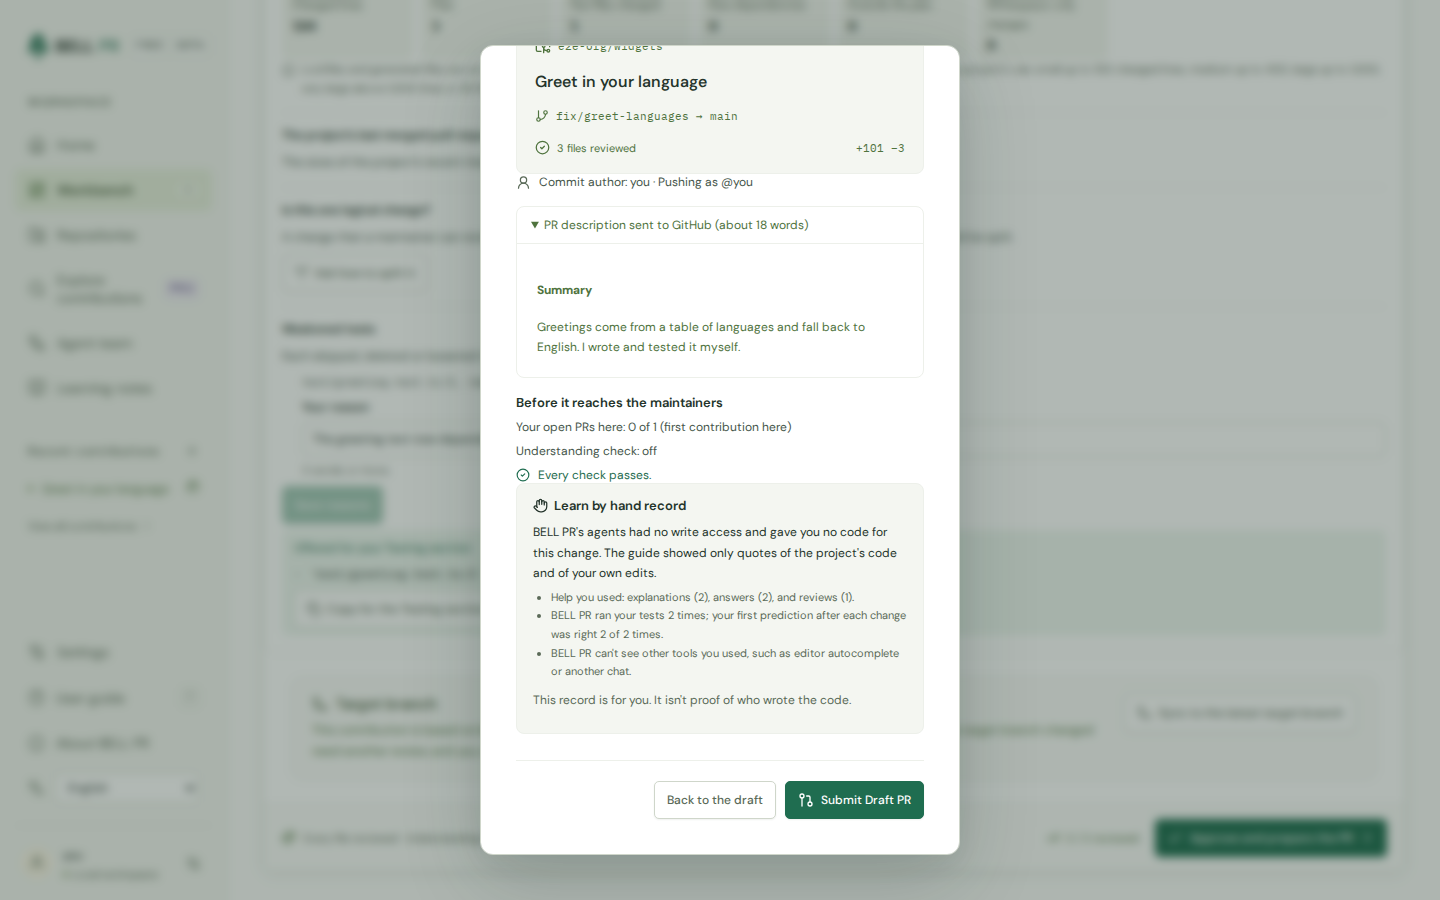
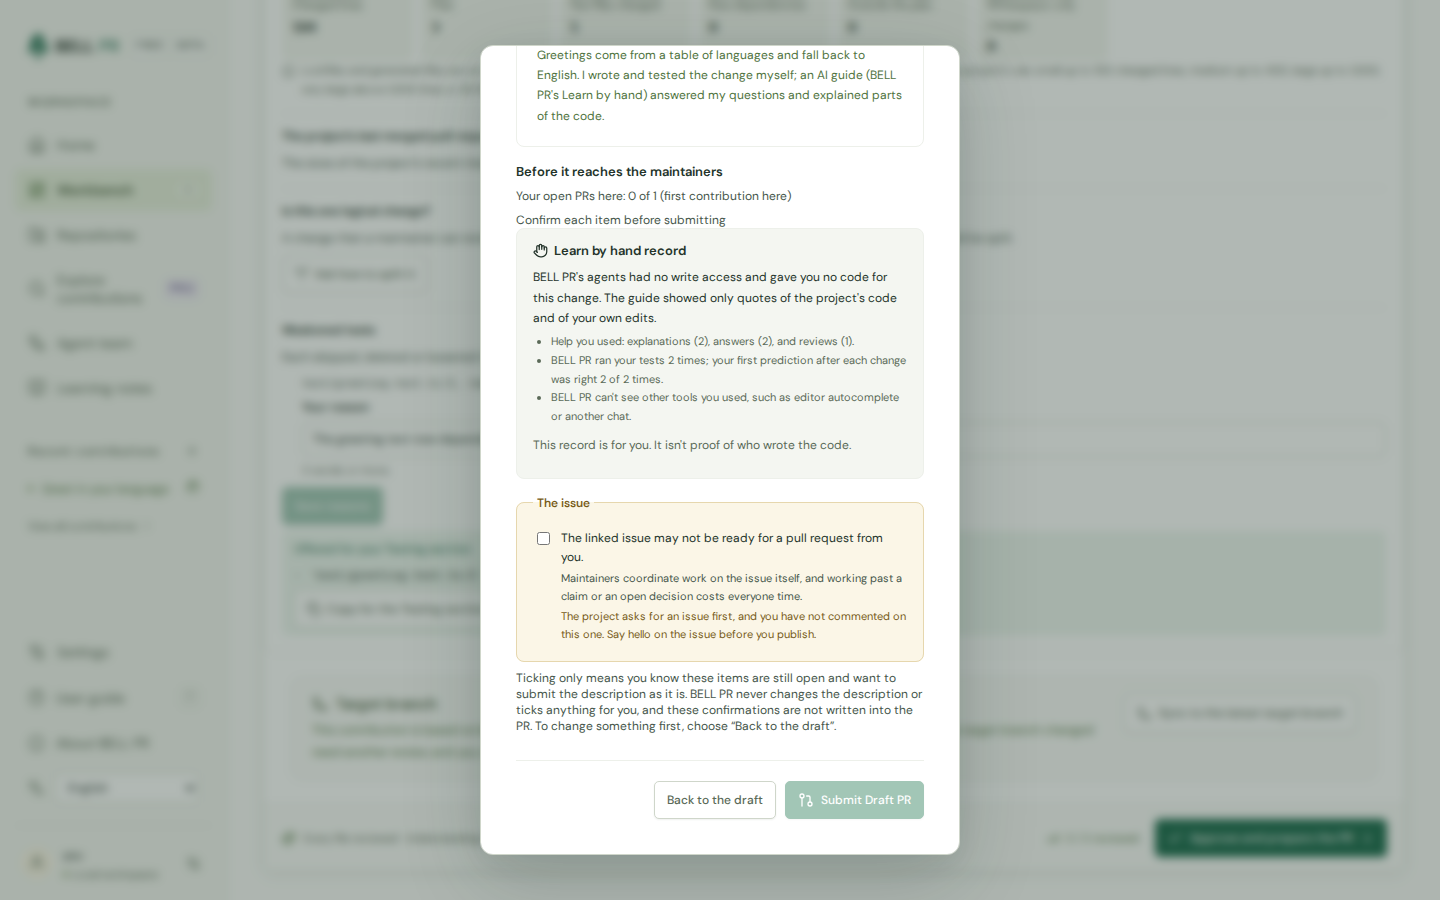
Capture the Learn-by-hand publish dialog with the check passed, a disclosing description and the issue's facts

Changed region(s): [[0.3438, 0.0311, 0.625, 0.8089], [0.5312, 0.84, 0.6562, 0.9333], [0.5938, 0.1556, 0.625, 0.1867]]

diff --git a/e2e/screenshots.spec.ts b/e2e/screenshots.spec.ts
@@ -344,7 +344,7 @@ const byHandWords = {
     askAnswer: "Your project's test command takes a file path after it; give it the greeting test's path.",
     hint: "Look at how the greeting text is built today, then at where a language could choose it.",
     tail: "FAIL test/greeting.test.ts > greets\nAssertionError: expected 'Hallo, Ada!' to be 'Hello, Ada!'",
-    body: "## Summary\n\nGreetings come from a table of languages and fall back to English. I wrote and tested it myself.",
+    body: "## Summary\n\nGreetings come from a table of languages and fall back to English. I wrote and tested the change myself; an AI guide (BELL PR's Learn by hand) answered my questions and explained parts of the code.",
   },
   "zh-TW": {
     title: "用你的語言打招呼",
@@ -361,9 +361,17 @@ const byHandWords = {
     askAnswer: "專案的測試指令後面可以接檔案路徑；把問候語測試的路徑給它就好。",
     hint: "先看看現在問候語的文字是怎麼組出來的，再想想語言可以在哪裡決定要用哪一句。",
     tail: "FAIL test/greeting.test.ts > greets\nAssertionError: expected 'Hallo, Ada!' to be 'Hello, Ada!'",
-    body: "## Summary\n\nGreetings come from a table of languages and fall back to English. I wrote and tested it myself.",
+    body: "## Summary\n\nGreetings come from a table of languages and fall back to English. I wrote and tested the change myself; an AI guide (BELL PR's Learn by hand) answered my questions and explained parts of the code.",
   },
 } satisfies Record<Locale, unknown>;
+
+/**
+ * The understanding check as a person who explained this version of the
+ * change back left it, so the publish dialog shows no "check off" line:
+ * the check is on by default, and these servers turn the setting off only
+ * to skip seeding its questions.
+ */
+const checkPassed = (fingerprint: string) => ({ passedAt: byHandAt(57), passedFingerprint: fingerprint });
 
 /** The fields of a Learn-by-hand run that all the views share. */
 function byHandRun(locale: Locale, fields: Record<string, unknown>, byHand: Record<string, unknown>) {
@@ -459,7 +467,7 @@ function approvedRun(locale: Locale, fingerprint: string) {
   const words = byHandWords[locale];
   return byHandRun(
     locale,
-    { status: "approved", approvedFingerprint: "e2e-approved", draft: { title: byHandWords.en.title, body: words.body } },
+    { status: "approved", approvedFingerprint: "e2e-approved", draft: { title: byHandWords.en.title, body: words.body }, understanding: checkPassed(fingerprint) },
     {
       plan: personPlan(locale, true),
       ready: { at: byHandAt(56), changeFingerprint: fingerprint, review: true },
@@ -498,6 +506,8 @@ async function openPublish(page: Page, locale: Locale) {
   const dialog = page.getByRole("dialog", { name: workspace.publish.title });
   await expect(dialog).toBeVisible({ timeout: 30_000 });
   await expect(dialog.getByText(workspace.publish.factsLoading)).toHaveCount(0, { timeout: 30_000 });
+  // The linked issue's facts arrive after the dialog's first checks: every width shows them.
+  await expect(dialog.getByRole("group", { name: workspace.publish.groups.issue })).toBeVisible({ timeout: 30_000 });
   return dialog;
 }
 
@@ -645,7 +655,7 @@ for (const locale of locales)
         extraFiles: [{ path: file, before: qemu, after: qemu }],
         run: byHandRun(
           locale,
-          { status: "review", draft: { title: byHandWords.en.title, body: words.body } },
+          { status: "review", draft: { title: byHandWords.en.title, body: words.body }, understanding: checkPassed(fingerprint) },
           {
             plan: personPlan(locale, true),
             helpLock: { ...fitted.lock, at: started },
